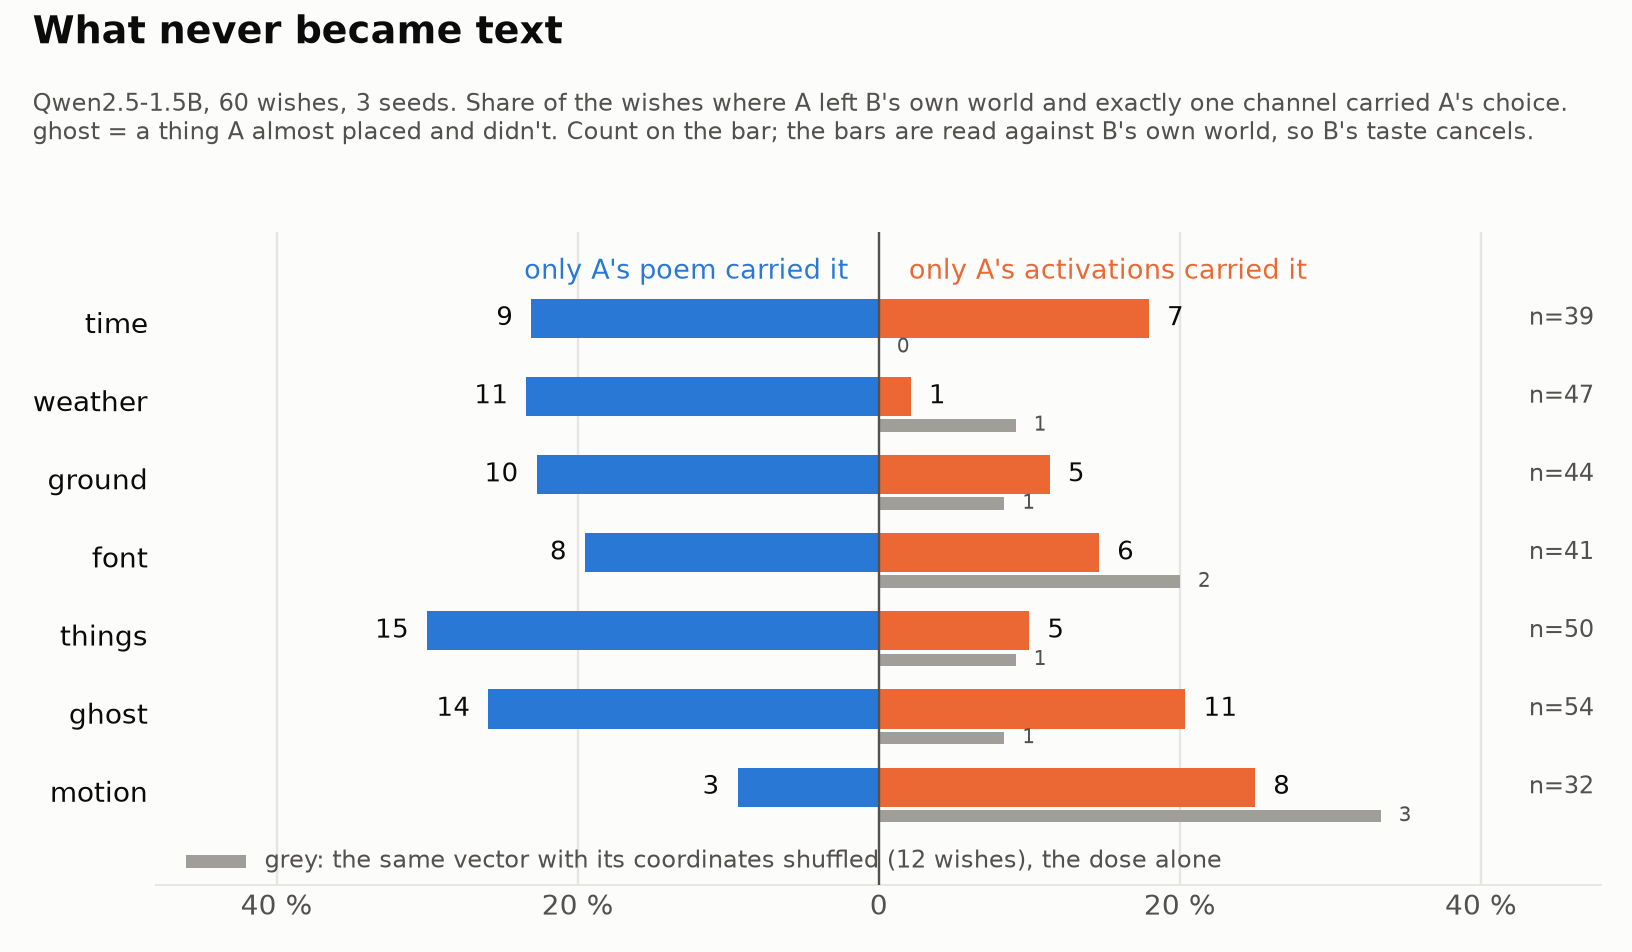
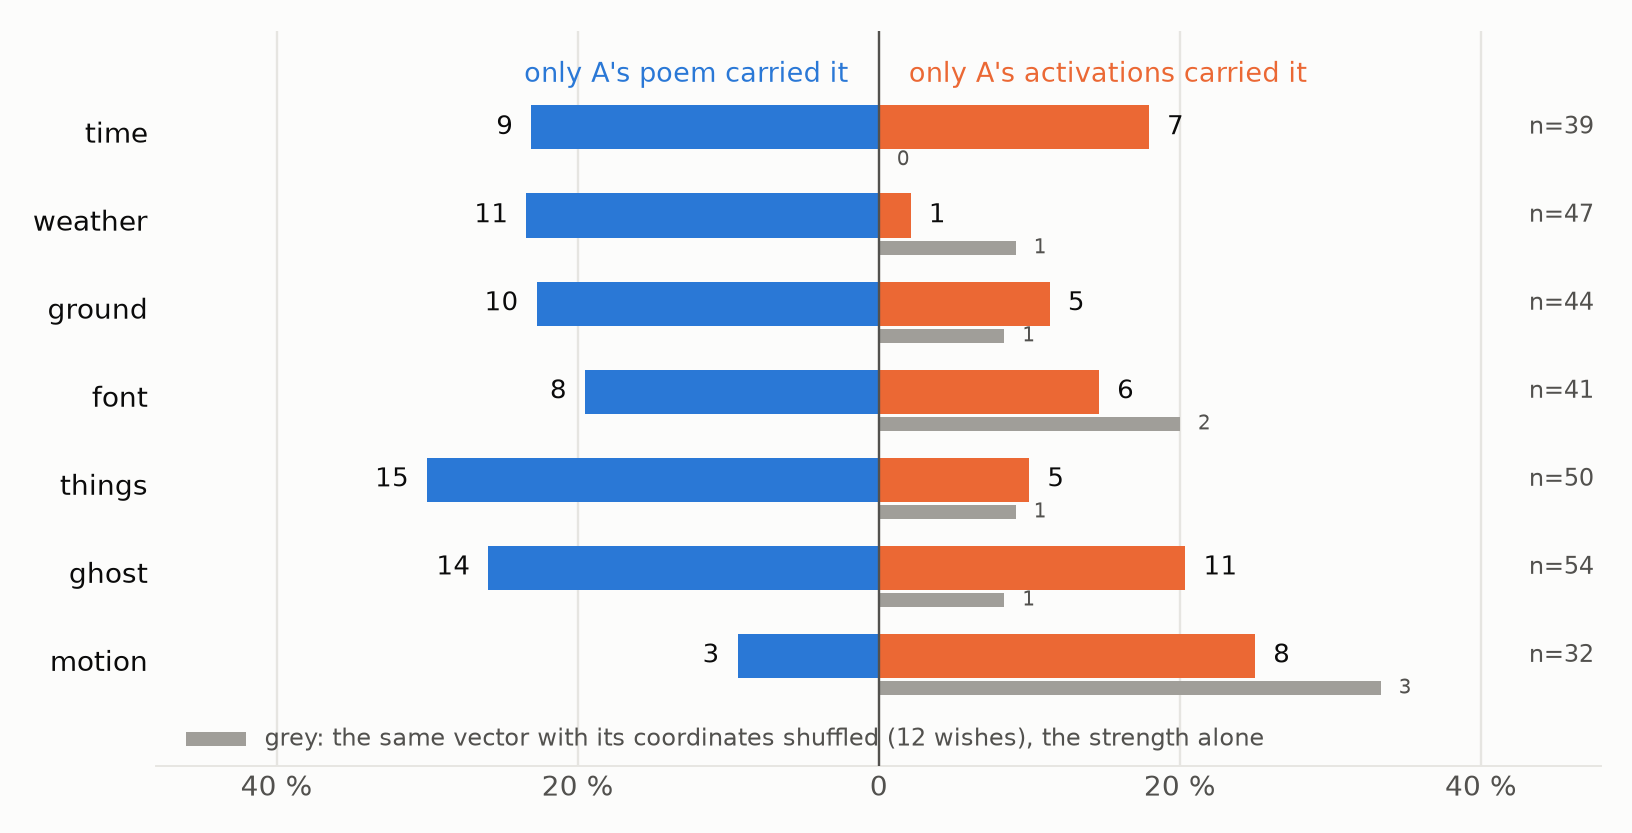
the plots lose their headlines

diff --git a/fig/plot_sliders.py b/fig/plot_sliders.py
@@ -107,7 +107,7 @@ def main():
         live = [x for x in live if x[1] in keep]
     cols = min(3, len(live)) or 1
     rows = (len(live) + cols - 1) // cols
-    size = (7.5, 5.2) if len(live) == 1 else ((12.5, 5.2) if len(live) == 2 else (4.2 * cols, 3.4 * rows + 0.9))
+    size = (7.5, 4.6) if len(live) == 1 else ((12.5, 4.6) if len(live) == 2 else (4.2 * cols, 3.4 * rows + 0.3))
     fig, axes = plt.subplots(rows, cols, figsize=size, facecolor=SURF)
     axes = list(axes.flat) if hasattr(axes, "flat") else [axes]
     for ax, (g, n, k, t, y) in zip(axes, live):
@@ -116,18 +116,11 @@ def main():
         ax.axis("off")
     if len(live) > 2:
         axes[0].legend(loc="upper left", frameon=False, fontsize=8.5, labelcolor=INK2)
-    fh = size[1]
-    fig.suptitle(a.title, x=0.02, ha="left", fontsize=15, color=INK, fontweight="bold", y=1 - 0.12 / fh)
     if len(live) <= 2:
-        sub = "Qwen2.5-1.5B, layer 16 ± 4. Eight worlds per point; the band is one standard error."
         for ax in axes[:len(live)]:
             ax.set_xlabel("strength of the vector (negative pushes the other way)", color=INK2)
         axes[0].legend(loc="best", frameon=False, fontsize=9.5, labelcolor=INK2)
-    else:
-        sub = ("Qwen2.5-1.5B, layer 16 ± 4. x: strength of one direction added to the residual stream; "
-               "y: what the drawn world contains. The band is one standard error. Negative strength pushes the other way.")
-    fig.text(0.02, 1 - 0.5 / fh, sub, color=INK2, fontsize=9)
-    fig.tight_layout(rect=(0, 0, 1, 1 - 0.38 / fh), h_pad=1.2)
+    fig.tight_layout(h_pad=1.2)
     out = pathlib.Path(a.out) if a.out else HERE / "docs" / "worldof-sliders.png"
     fig.savefig(out, dpi=170, facecolor=SURF)
     print(out)

diff --git a/fig/plot_dose.py b/fig/plot_dose.py
@@ -74,12 +74,12 @@ def panel(ax, xs, pts, xlabel, ref):
 def main():
     font_manager.fontManager.addfont("/usr/share/fonts/truetype/dejavu/DejaVuSans.ttf")
     plt.rcParams.update({"font.family": "DejaVu Sans", "font.size": 11})
-    fig, (a1, a2) = plt.subplots(1, 2, figsize=(11.5, 4.8), facecolor=SURF, sharey=True)
+    fig, (a1, a2) = plt.subplots(1, 2, figsize=(11.5, 4.2), facecolor=SURF, sharey=True)
     pooled = point(POOLED)
     xs = [1, 2, 3, 4, 5]
     pts = [point(DOSE[1]), point(DOSE[2]), pooled, point(DOSE[4]), point(DOSE[5])]
     panel(a1, xs, pts, "strength (layer 16 ± 4)", pooled)
-    a1.set_title("the dose", loc="left", color=INK, fontsize=12)
+    a1.set_title("the strength", loc="left", color=INK, fontsize=12)
     xs2 = [6, 10, 16, 22, 26]
     pts2 = [point(LAYER[6]), point(LAYER[10]), pooled, point(LAYER[22]), point(LAYER[26])]
     panel(a2, xs2, pts2, "layer (strength 3, ± 4)", pooled)
@@ -96,12 +96,7 @@ def main():
     a1.set_ylabel("agreement with A, moved fields, vector", color=INK2)
     a2.legend(loc="upper left", bbox_to_anchor=(1.02, 1), frameon=False, fontsize=9.5,
               labelcolor=INK2)
-    fig.suptitle("What the dose and the layer do", x=0.02, ha="left", fontsize=15,
-                 color=INK, fontweight="bold", y=0.985)
-    fig.text(0.02, 0.905, "Qwen2.5-1.5B, seed 1, 12 wishes per point (60 at the shared point). "
-             "Faint ticks at the right edge: the poem, which does not depend on either knob.",
-             color=INK2, fontsize=9.5)
-    fig.tight_layout(rect=(0, 0, 1, 0.88))
+    fig.tight_layout()
     out = HERE / "docs" / "secondhand-dose.png"
     fig.savefig(out, dpi=170, facecolor=SURF)
     print(out)

diff --git a/fig/plot_ledger.py b/fig/plot_ledger.py
@@ -34,7 +34,7 @@ def main():
     rot = load(sys.argv[2] if len(sys.argv) > 2 else ROT)
     font_manager.fontManager.addfont("/usr/share/fonts/truetype/dejavu/DejaVuSans.ttf")
     plt.rcParams.update({"font.family": "DejaVu Sans", "font.size": 12})
-    fig, ax = plt.subplots(figsize=(9.6, 5.6), facecolor=SURF)
+    fig, ax = plt.subplots(figsize=(9.6, 4.9), facecolor=SURF)
     ax.set_facecolor(SURF)
     ys = list(range(len(FIELDS)))[::-1]
     ax.axvline(0, color=INK2, linewidth=1, zorder=3)
@@ -70,15 +70,9 @@ def main():
     # legend for the grey bar, drawn by hand so it reads as what it is
     lx, ly = -0.46, -0.85
     ax.add_patch(plt.Rectangle((lx, ly - 0.08), 0.04, 0.16, facecolor=ROTC, linewidth=0))
-    ax.text(lx + 0.052, ly, "grey: the same vector with its coordinates shuffled (12 wishes), the dose alone",
+    ax.text(lx + 0.052, ly, "grey: the same vector with its coordinates shuffled (12 wishes), the strength alone",
             va="center", color=INK2, fontsize=10)
-    fig.suptitle("What never became text", x=0.02, ha="left", fontsize=16,
-                 color=INK, fontweight="bold", y=0.985)
-    fig.text(0.02, 0.905, "Qwen2.5-1.5B, 60 wishes, 3 seeds. Share of the wishes where A left B's own world "
-             "and exactly one channel carried A's choice.\nghost = a thing A almost placed and didn't. "
-             "Count on the bar; the bars are read against B's own world, so B's taste cancels.",
-             color=INK2, fontsize=10, va="top")
-    fig.tight_layout(rect=(0, 0, 1, 0.86))
+    fig.tight_layout()
     out = HERE / "docs" / "secondhand-ledger.png"
     fig.savefig(out, dpi=170, facecolor=SURF)
     print(out)

diff --git a/fig/plot_worldof.py b/fig/plot_worldof.py
@@ -31,7 +31,7 @@ def main():
     font_manager.fontManager.addfont("/usr/share/fonts/truetype/dejavu/DejaVuSans.ttf")
     plt.rcParams.update({"font.family": "DejaVu Sans", "font.size": 11})
     cols = FIELDS + ["things", "dark"]
-    fig, ax = plt.subplots(figsize=(1.9 * len(cols) + 2.6, 0.5 * len(rows) + 2.2), facecolor=SURF)
+    fig, ax = plt.subplots(figsize=(1.9 * len(cols) + 2.6, 0.5 * len(rows) + 1.2), facecolor=SURF)
     ax.set_facecolor(SURF)
     for i, r in enumerate(rows):
         y = len(rows) - 1 - i
@@ -74,14 +74,7 @@ def main():
     ax.set_xlim(-1.9, len(cols) + 1.2)
     ax.set_ylim(-0.1, len(rows) + 1.0)
     ax.axis("off")
-    fig.suptitle("What a vector looks like, counted", x=0.02, ha="left", fontsize=15,
-                 color=INK, fontweight="bold", y=0.985)
-    fig.text(0.02, 0.905, f"{d.get('model', '')} · strength {d['params']['strength']} · layer {d['layer']} · "
-             f"{base['n']} unsteered worlds, {summ[rows[0]]['n']} per direction. Cell: share of worlds that "
-             "left the unsteered mode, and the value they went to most (·ex = the worked example's value).\n"
-             "The shuffled row under each direction is the same vector with its coordinates permuted: what the dose alone does.",
-             color=INK2, fontsize=9.5, va="top")
-    fig.tight_layout(rect=(0, 0, 1, 0.86))
+    fig.tight_layout()
     out = HERE / "docs" / "worldof-counted.png"
     fig.savefig(out, dpi=170, facecolor=SURF)
     print(out)

diff --git a/fig/plot_directions.py b/fig/plot_directions.py
@@ -76,7 +76,7 @@ def main():
     font_manager.fontManager.addfont("/usr/share/fonts/truetype/dejavu/DejaVuSans.ttf")
     plt.rcParams.update({"font.family": "DejaVu Sans", "font.size": 10})
     n = len(names)
-    fig, ax = plt.subplots(figsize=(0.46 * n + 2.6, 0.46 * n + 2.2), facecolor=SURF)
+    fig, ax = plt.subplots(figsize=(0.46 * n + 2.6, 0.46 * n + 1.4), facecolor=SURF)
     im = ax.imshow(M, cmap=CMAP, vmin=-1, vmax=1)
     shown = [labels.get(x, x) for x in names]
     ax.set_xticks(range(n), shown, rotation=55, ha="right", fontsize=10)
@@ -105,10 +105,7 @@ def main():
     cb = plt.colorbar(im, ax=ax, fraction=0.03, pad=0.02, ticks=[-1, -0.5, 0, 0.5, 1])
     cb.set_label("cosine: +1 the same direction, 0 unrelated, −1 opposite", color=INK2)
     cb.outline.set_visible(False)
-    fig.suptitle("Which sliders are the same slider", x=0.02, ha="left", fontsize=16, color=INK, fontweight="bold", y=0.995)
-    fig.text(0.02, 0.962, f"{model.split('/')[-1]} · layer {layer} · every direction I built, and the cosine between each pair. "
-             f"Numbers where |cos| ≥ {a.min:g}.", color=INK2, fontsize=9.5)
-    fig.tight_layout(rect=(0, 0, 1, 0.95))
+    fig.tight_layout()
     out = HERE / "docs" / "directions-cos.png"
     fig.savefig(out, dpi=170, facecolor=SURF)
     print(out)

diff --git a/fig/plot_residue.py b/fig/plot_residue.py
@@ -70,12 +70,7 @@ def main():
         ax.text(-0.4, len(FIELDS) - 0.35, "only the poem", color=TEXT, fontsize=9.5, ha="right")
         ax.text(0.4, len(FIELDS) - 0.35, "only the vector", color=VEC, fontsize=9.5, ha="left")
         ax.set_ylim(-0.6, len(FIELDS) - 0.0)
-    fig.suptitle("What never became text", x=0.02, ha="left", fontsize=15,
-                 color=INK, fontweight="bold", y=0.995)
-    fig.text(0.02, 0.93, "items where only A's activations carried the field to B (right), or only A's own poem did (left); "
-             "both counted where A left B's own world. ghost = a thing A almost placed.",
-             color=INK2, fontsize=9.5)
-    fig.tight_layout(rect=(0, 0, 1, 0.93))
+    fig.tight_layout()
     out = HERE / "docs" / "secondhand-residue.png"
     fig.savefig(out, dpi=170, facecolor=SURF)
     print(out)
